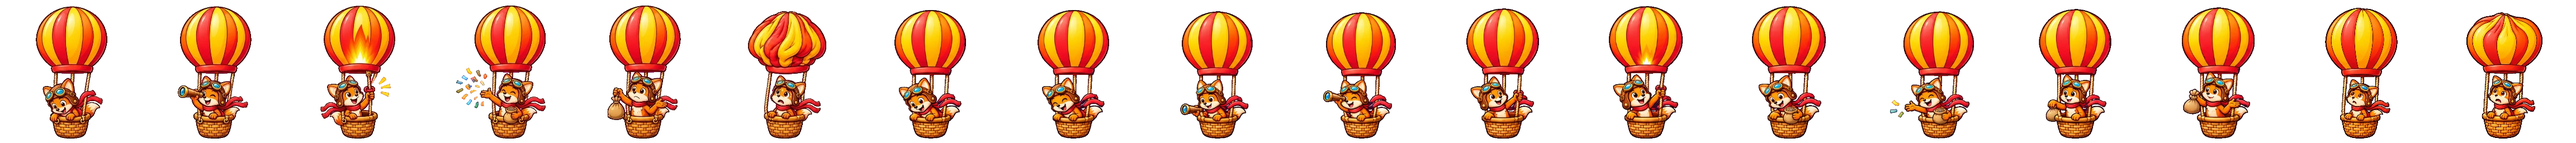
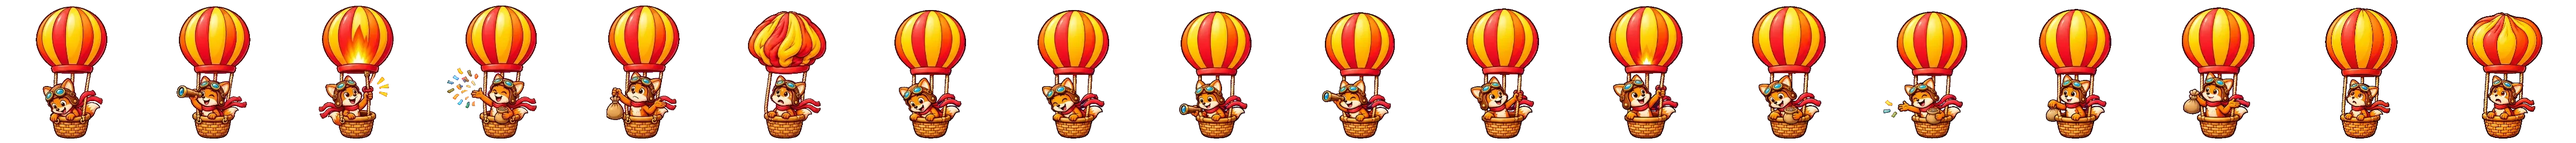
Worlds fox: clouds ease opposite the balloon, confetti pose no longer shifts him, balloon no longer deflates
Claude-Session: https://claude.ai/code/session_01LfmF5cxUUBcpb9MQqZTHNz

diff --git a/anim/game-polish.css b/anim/game-polish.css
@@ -430,12 +430,12 @@ html[data-motion=reduce] .tw-space * { animation: none !important; transition: n
 .wl-rs-scene { position: relative; flex: 1 1 auto; min-height: 150px; max-height: 320px; overflow: hidden; border-radius: 22px; border: 3px solid #8bb7bd; background: linear-gradient(#8fd0f5, #dff3ff); animation: wlSceneIn .45s ease-out 1.3s both; }
 @keyframes wlSceneIn { from { opacity: 0; } to { opacity: 1; } }
 .wl-cl { position: absolute; left: 0; height: 18px; width: 56px; border-radius: 20px; background: rgba(255,255,255,.92); box-shadow: 14px -7px 0 -2px rgba(255,255,255,.92), 30px 2px 0 -3px rgba(255,255,255,.92); animation: wlSceneCloud 16s linear infinite, var(--shift, none); }
-.wl-cl.c1 { top: 16%; animation-delay: -3s, 0s; } .wl-cl.c2 { top: 46%; width: 70px; animation-duration: 22s, 1.6s; animation-delay: -12s, 0s; } .wl-cl.c3 { top: 74%; width: 44px; animation-duration: 13s, 1.6s; animation-delay: -7s, 0s; }
+.wl-cl.c1 { --cdy: .6; top: 16%; animation-delay: -3s, 0s; } .wl-cl.c2 { --cdy: 1; top: 46%; width: 70px; animation-duration: 22s, 1.6s; animation-delay: -12s, 0s; } .wl-cl.c3 { --cdy: 1.5; top: 74%; width: 44px; animation-duration: 13s, 1.6s; animation-delay: -7s, 0s; }
 @keyframes wlSceneCloud { from { left: 110%; } to { left: -30%; } }
 .wl-rs-scene.is-reacting[data-mood=up] .wl-cl { --shift: wlCloudsDown 1.6s ease-in-out both; }
 .wl-rs-scene.is-reacting[data-mood=down] .wl-cl { --shift: wlCloudsUp 1.6s ease-in-out both; }
-@keyframes wlCloudsDown { to { transform: translateY(24px); } }
-@keyframes wlCloudsUp { to { transform: translateY(-18px); } }
+@keyframes wlCloudsDown { to { transform: translateY(calc(var(--cdy, 1) * 34px)); } } /* the clouds ease the opposite way to the balloon, near ones farther than far ones */
+@keyframes wlCloudsUp { to { transform: translateY(calc(var(--cdy, 1) * -26px)); } }
 .wl-rs-balloon { position: absolute; left: 50%; bottom: 10%; height: 72%; aspect-ratio: 285 / 560; transform: translateX(-50%); }
 .wl-rs-scene[data-mood=up] { --dip: 2%; --past: -16%; --recover: -11%; --end: -12%; }
 .wl-rs-scene[data-mood=down] { --dip: -1%; --past: 11%; --recover: 7%; --end: 8%; }

diff --git a/scripts/center-worlds-strip.py b/scripts/center-worlds-strip.py
@@ -1,0 +1,15 @@
+# Keep the fox's balloon on the same centre line in every frame of the worlds strip (the confetti frames used to
+# shift it to the right because the confetti was counted in the centring). Run on the original strip in art-source.
+from PIL import Image
+import numpy as np
+from scipy import ndimage
+src='art-source/retired-2026-11-22/worlds-motion-uncentered.webp'; out='icons/mascot-poses/worlds-motion.webp'
+im=Image.open(src).convert('RGBA'); W,H=im.size; n=18; cw=W//n
+res=Image.new('RGBA',(W,H),(0,0,0,0))
+for i in range(n):
+    f=im.crop((i*cw,0,(i+1)*cw,H)); a=np.array(f)[:,:,3]>20
+    lab,cnt=ndimage.label(a); sizes=ndimage.sum(a,lab,range(1,cnt+1)); main=lab==(1+int(np.argmax(sizes)))
+    ys,xs=np.where(main[:100]); cx=(xs.min()+xs.max())/2; dx=round(cw/2-0.5-cx)
+    print(i,round(cx,1),dx)
+    cell=Image.new('RGBA',(cw,H),(0,0,0,0)); cell.paste(f,(dx,0)); res.paste(cell,(i*cw,0))
+res.save(out,'WEBP',quality=82)
